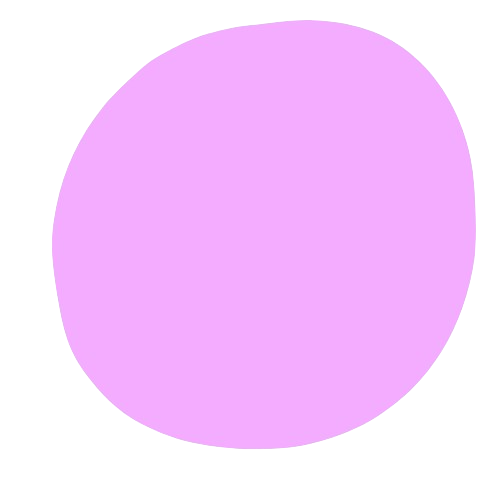
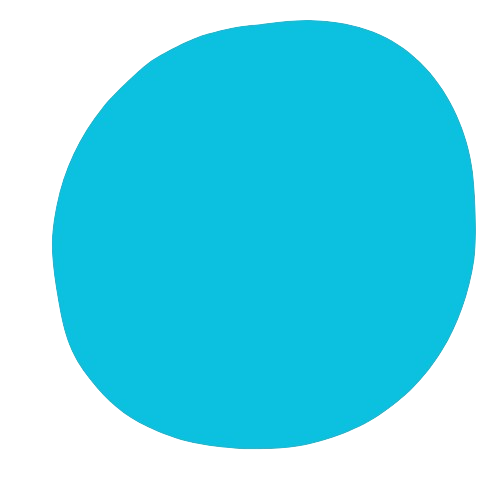
modificati colori

diff --git a/src/views/AboutView.vue b/src/views/AboutView.vue
@@ -35,6 +35,18 @@ import BaseButton from "@/components/BaseButton.vue"
 
     <div class="life-div">
       <h2>My life</h2>
+      <div class="photo-container">
+        <img
+          class="shape-image"
+          src="../assets/images/personal-images/shape.png"
+          alt=""
+        />
+        <img
+          class="personal-photo"
+          src="../assets/images/personal-images/personal.jpg"
+          alt=""
+        />
+      </div>
       <p>
         In my free time, I enjoy reading, watching films, and immersing myself
         in TV series. I'm particularly drawn to the worlds of
@@ -48,18 +60,6 @@ import BaseButton from "@/components/BaseButton.vue"
         actively support organizations and initiatives dedicated to addressing
         these critical challenges.
       </p>
-      <div class="photo-container">
-        <img
-          class="shape-image"
-          src="../assets/images/personal-images/shape.png"
-          alt=""
-        />
-        <img
-          class="personal-photo"
-          src="../assets/images/personal-images/personal.jpg"
-          alt=""
-        />
-      </div>
     </div>
   </div>
 </template>
@@ -81,22 +81,26 @@ import BaseButton from "@/components/BaseButton.vue"
   }
 
   .life-div {
+    display: flex;
+    flex-direction: column;
+    align-items: center;
     margin-top: 20px;
     .photo-container {
       position: relative;
       margin: 30px 0;
+      margin-bottom: 4ch;
 
       .personal-photo {
         border-radius: 50%;
         z-index: 10;
         position: relative;
-        width: 80%;
+        width: 70%;
       }
 
       .shape-image {
         position: absolute;
-        width: 90%;
-        top: 40px;
+        width: 75%;
+        top: 30px;
         left: 40px;
       }
     }

diff --git a/src/components/AppHeaderFooter.vue b/src/components/AppHeaderFooter.vue
@@ -22,7 +22,7 @@ let toggleMode = function () {
     <router-link to="/">
       <button class="home-btn">
         <img
-          src="../assets/images/personal-images/portfolio-logo.png"
+          src="../assets/images/personal-images/logo.png"
           class="logo"
         /></button
     ></router-link>

diff --git a/src/components/SkillsAndWork.vue b/src/components/SkillsAndWork.vue
@@ -114,7 +114,7 @@ h2 {
   display: flex;
   flex-direction: column;
   align-items: center;
-  background-color: hwb(182 0% 22%);
+  background-color: #00c0c7;
   padding: 40px 0;
   .skills {
     margin: 20px;
